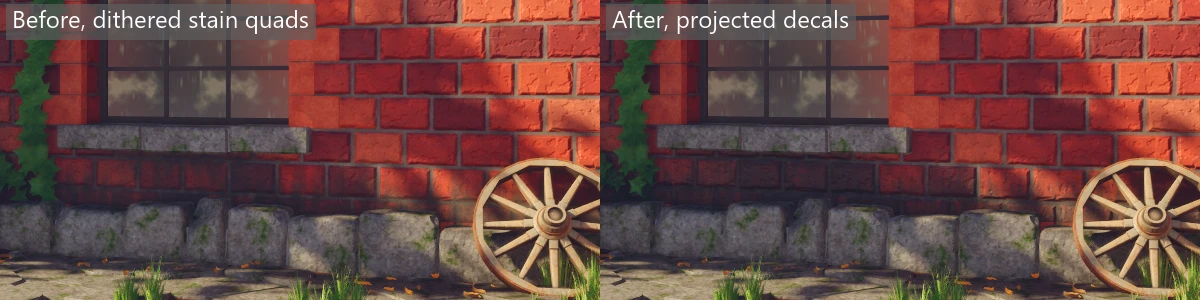
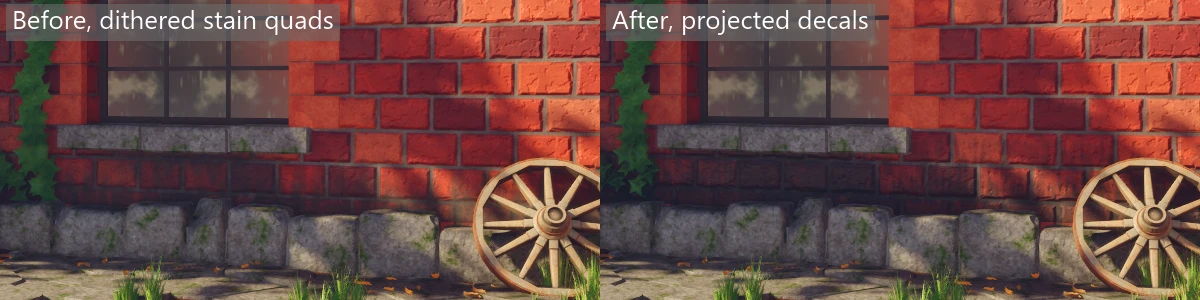
fix: decals read their normal maps the right way up, skip the sky safely and keep their materials bounded

diff --git a/src/Super/Rendering/SceneRenderer.cs b/src/Super/Rendering/SceneRenderer.cs
@@ -38,8 +38,21 @@ internal sealed class SceneRenderer : IDisposable
     private IContentFiles? _files;
     private readonly ReflectionProbeSchedule _reflectionProbes = new();
 
-    /// <summary>A material for each surface decals have used, made the first time and kept until content unloads.</summary>
-    private readonly Dictionary<Surface, MaterialHandle> _decalMaterials = [];
+    /// <summary>
+    /// A material for each surface decals have used, made the first time, with the frame it was last used in.
+    /// Kept until content unloads, or until there are more than <see cref="MaxDecalMaterials"/>.
+    /// </summary>
+    private readonly Dictionary<Surface, (MaterialHandle Handle, long Frame)> _decalMaterials = [];
+
+    /// <summary>
+    /// How many decal materials are kept. Past this, the ones this frame didn't use are let go, so a game that
+    /// makes a new <see cref="Surface"/> value every frame doesn't fill the material slots. Twice what one
+    /// frame can use, so the materials of a steady scene are never made again.
+    /// </summary>
+    internal const int MaxDecalMaterials = 2 * Rendition.Passes.DecalBatch.MaxDecals;
+
+    private long _decalFrame;
+    private readonly List<Surface> _unusedDecalSurfaces = [];
     private DecalDraw[] _decals = new DecalDraw[16];
     private int _decalCount;
 
@@ -313,7 +326,7 @@ internal sealed class SceneRenderer : IDisposable
         {
             foreach (var material in _decalMaterials.Values)
             {
-                _renderer.DestroyMaterial(material);
+                _renderer.DestroyMaterial(material.Handle);
             }
 
             _decalMaterials.Clear();
@@ -445,9 +458,39 @@ internal sealed class SceneRenderer : IDisposable
             _decals = new DecalDraw[Math.Max(placed.Length, _decals.Length * 2)];
         }
 
+        _decalFrame++;
         foreach (ref readonly var decal in placed)
         {
             _decals[_decalCount++] = new DecalDraw(decal.Box, DecalMaterial(decal.Material, content), decal.Blend);
+        }
+
+        ForgetUnusedDecalMaterials();
+    }
+
+    /// <summary>
+    /// Past <see cref="MaxDecalMaterials"/>, lets go of every decal material this frame didn't use. The renderer
+    /// destroys them once the frames still in flight are done with them.
+    /// </summary>
+    private void ForgetUnusedDecalMaterials()
+    {
+        if (_decalMaterials.Count <= MaxDecalMaterials)
+        {
+            return;
+        }
+
+        _unusedDecalSurfaces.Clear();
+        foreach (var (surface, material) in _decalMaterials)
+        {
+            if (material.Frame != _decalFrame)
+            {
+                _unusedDecalSurfaces.Add(surface);
+            }
+        }
+
+        foreach (var surface in _unusedDecalSurfaces)
+        {
+            _renderer.DestroyMaterial(_decalMaterials[surface].Handle);
+            _decalMaterials.Remove(surface);
         }
     }
 
@@ -457,19 +500,21 @@ internal sealed class SceneRenderer : IDisposable
     /// </summary>
     private MaterialHandle DecalMaterial(Surface surface, Content content)
     {
-        if (!_decalMaterials.TryGetValue(surface, out var handle))
+        if (_decalMaterials.TryGetValue(surface, out var known))
         {
-            var material = MaterialOf(surface) with
-            {
-                BaseColorTexture = Texture(surface.ColorTexture, content),
-                NormalTexture = Texture(surface.NormalTexture, content),
-                SurfaceTexture = Texture(surface.SurfaceTexture, content),
-                Flags = MaterialFlags.None,
-            };
-            handle = _renderer.CreateMaterial(material);
-            _decalMaterials.Add(surface, handle);
+            _decalMaterials[surface] = (known.Handle, _decalFrame);
+            return known.Handle;
         }
 
+        var material = MaterialOf(surface) with
+        {
+            BaseColorTexture = Texture(surface.ColorTexture, content),
+            NormalTexture = Texture(surface.NormalTexture, content),
+            SurfaceTexture = Texture(surface.SurfaceTexture, content),
+            Flags = MaterialFlags.None,
+        };
+        var handle = _renderer.CreateMaterial(material);
+        _decalMaterials.Add(surface, (handle, _decalFrame));
         return handle;
     }
 

diff --git a/src/Rendition/Vulkan/VulkanContext.cs b/src/Rendition/Vulkan/VulkanContext.cs
@@ -256,6 +256,19 @@ internal sealed unsafe class VulkanContext : IDisposable
         return null;
     }
 
+    /// <summary>
+    /// Throws when the GPU lacks a device feature the renderer can't draw without, naming it, rather than
+    /// letting device creation fail with a bare error code.
+    /// </summary>
+    internal static void RequireFeatures(in PhysicalDeviceFeatures supported)
+    {
+        if (!supported.IndependentBlend)
+        {
+            throw new InvalidOperationException(
+                "This GPU can't blend its render targets in different ways at once (Vulkan's independentBlend), which decals need.");
+        }
+    }
+
     private Device CreateDevice()
     {
         float priority = 1f;
@@ -267,6 +280,7 @@ internal sealed unsafe class VulkanContext : IDisposable
             PQueuePriorities = &priority,
         };
         Api.GetPhysicalDeviceFeatures(PhysicalDevice, out var supported);
+        RequireFeatures(supported);
         StorageImageExtendedFormats = supported.ShaderStorageImageExtendedFormats;
         var features = new PhysicalDeviceFeatures
         {

diff --git a/src/Rendition/Renderer.cs b/src/Rendition/Renderer.cs
@@ -1397,10 +1397,6 @@ public sealed unsafe class Renderer : IDisposable
     }
 
     /// <summary>
-    /// Sorts this frame's particles into their buffer and keeps the camera's axes, which
-    /// turn each one to face the screen. The view matrix holds them in its columns.
-    /// </summary>
-    /// <summary>
     /// Checks and packs the view's decals, or none when they're switched off. Throws for a decal
     /// that can't be drawn: too many, a box that can't be inverted, a weight outside 0 to 1 or a material that doesn't exist.
     /// </summary>
@@ -1419,6 +1415,10 @@ public sealed unsafe class Renderer : IDisposable
         _decalPass.Prepare(decals);
     }
 
+    /// <summary>
+    /// Sorts this frame's particles into their buffer and keeps the camera's axes, which
+    /// turn each one to face the screen. The view matrix holds them in its columns.
+    /// </summary>
     private void UploadParticles(in FrameView view)
     {
         ref readonly var m = ref view.View;

diff --git a/tests/Super.Tests/DecalTests.cs b/tests/Super.Tests/DecalTests.cs
@@ -169,4 +169,21 @@ public class DecalTests
         Assert.StartsWith("NormalTexture names 40, but nothing was named with that index.", error.Message);
         Assert.Empty(view.DrawnDecals.ToArray());
     }
+
+    [Fact]
+    public void A_GPU_that_cannot_blend_its_targets_independently_is_refused_by_name()
+    {
+        var error = Assert.Throws<InvalidOperationException>(
+            () => Rendition.Vulkan.VulkanContext.RequireFeatures(new Silk.NET.Vulkan.PhysicalDeviceFeatures { IndependentBlend = false }));
+
+        Assert.Equal(
+            "This GPU can't blend its render targets in different ways at once (Vulkan's independentBlend), which decals need.",
+            error.Message);
+    }
+
+    [Fact]
+    public void A_GPU_that_blends_its_targets_independently_is_accepted()
+    {
+        Rendition.Vulkan.VulkanContext.RequireFeatures(new Silk.NET.Vulkan.PhysicalDeviceFeatures { IndependentBlend = true });
+    }
 }

diff --git a/examples/Courtyard/content/materials/grime.material.cs b/examples/Courtyard/content/materials/grime.material.cs
@@ -17,8 +17,9 @@ public sealed class Grime : MaterialGraph
 
     public override Material Build()
     {
-        // 0 at the solid edge, rising down the image to 1.2 at the far edge, so the grime has gone by about four fifths.
-        var away = Pixel.Gray(p => p.Uv.Y * 1.2f);
+        // 0 at the solid edge, rising down the image. A streak reaches 1.2 at the far edge, so it has gone by about four
+        // fifths. Damp climbs further before it dries out, reaching 0.85, so its ragged top runs close to the far edge.
+        var away = Pixel.Gray(p => p.Uv.Y * (Streak ? 1.2f : 0.85f));
 
         // Water runs down a wall in streaks, so the fade is torn into vertical runs of different lengths.
         var streaks = Noise.Directional(scale: 24, angle: 90f, stretch: 10f, octaves: 3, seed: Seed).Remap(-0.3f, 0.3f);

diff --git a/examples/Courtyard/CourtyardGame.cs b/examples/Courtyard/CourtyardGame.cs
@@ -62,7 +62,9 @@ public sealed class CourtyardGame(Content content, Input input, Graphics graphic
         string[] kept = content.MeshNames(_courtyard).Where(name => name != "cy_stains").ToArray();
         _withoutStains = content.Meshes(_courtyard, kept);
 
-        var damp = content.Surface("materials/grime.material.cs");
+        // The damp is darkened past the grime's own colour so it reads from across the yard: wet brick goes
+        // a good deal darker than dry. The model's hidden quads use the same graph, so it isn't changed there.
+        var damp = content.Surface("materials/grime.material.cs") with { Color = new Vector3(0.5f) };
         var drip = content.Surface("materials/grime-streak.material.json");
         var rust = content.Surface("materials/rust-streak.material.json");
 

diff --git a/docs/design.md b/docs/design.md
@@ -1222,7 +1222,10 @@ A decal is a box. `View.Decal` takes its matrix, a `Surface` made of textures an
 `DecalBlend`, and refuses a box that can't be inverted, a weight outside 0 to 1, a surface
 shader and a 257th decal before anything is drawn. `SceneRenderer` turns each surface into
 a material of its own once (colour, normal and surface textures, no flags) and hands the
-renderer `FrameView.Decals`. `DecalBatch.Pack` checks them again and packs each one into a
+renderer `FrameView.Decals`. It keeps those materials, with the frame each was last used,
+until content unloads; past `MaxDecalMaterials` (512, twice what a frame can use) it lets go
+of every one the current frame didn't use, so a new `Surface` value each frame can't fill the
+material slots. `Renderer.DestroyMaterial` holds the slot until the frames in flight finish. `DecalBatch.Pack` checks them again and packs each one into a
 160-byte `GpuDecal`: the box, its inverse, the four weights and the material index.
 `DecalPass` keeps those in a host-visible vertex buffer for each frame in flight, read as
 per-instance attributes, so the frame set is unchanged, and draws all of them in one
@@ -1237,7 +1240,9 @@ inside it. Nothing in front of a decal needs testing: it lands on whatever the d
 buffer holds, which is the nearest surface.
 `decal.frag` reads the depth, rebuilds the world position from `inverseViewProjection`,
 takes it into the box with the inverse, and discards it outside the box or at the far
-plane. The UV is the box's local x and -z mapped from -0.5..0.5 to 0..1. Its derivatives
+plane. A pixel at the far plane has no finite position, so it is moved just outside the
+box first, before its neighbours' derivatives can pick up an infinity from it. The UV is
+the box's local x and -z mapped from -0.5..0.5 to 0..1. Its derivatives
 are taken before any discard and clamped to four times what a flat surface at that depth
 would give, so the mip doesn't jump to the smallest at a depth edge, and they're scaled by
 the frame's mip bias, so render scale and TAA sharpen decals as they do the rest.
@@ -1248,13 +1253,17 @@ box that pokes through a corner doesn't end in a hard line. Its strength is the 
 opacity (base colour alpha times the surface texture's alpha) times that fade. Base colour
 is alpha-blended, by that strength times `Color`, into RT0, with metallic left alone.
 
-RT1 is written whole, without blending, because a normal can't be blended as a colour:
+RT1 is written whole, without blending, while RT0 blends, which needs the device feature
+`independentBlend`. `VulkanContext.RequireFeatures` checks it before the device is made
+and names it when it's missing. A normal can't be blended as a colour:
 the decal's normal map is laid over the normal underneath with reoriented normal mapping
 (RNM), so the brick's bumps show through the damp. The pass must read the normal it
 writes, and a colour attachment can't be sampled while it's drawn to, so `RecordDecals`
 copies RT1 into `GBuffer.NormalCopy` with `vkCmdCopyImage` first and the shader reads the
-copy. The RNM runs in the box's frame: x across the box, y out of the surface, z along
-it. The result is mixed in by strength times `Normal`, roughness by strength times
+copy. The RNM runs in the box's frame, set up the way a mesh's is: the
+tangent is the box's +X, the way u rises, the bitangent its +Z, the way v falls, and the
+normal its +Y. The bitangent comes from the box's own Z rather than a cross product, so a
+mirrored box still reads its normal map the right way up. The result is mixed in by strength times `Normal`, roughness by strength times
 `Roughness`, and RT1's w is copied through. The copy and the transitions round it are
 skipped when a frame has no decals. Depth goes to shader-read for the pass, which the AO
 pass then reads as it was going to anyway.
@@ -1279,8 +1288,8 @@ What it doesn't do yet:
 - The angle fade uses the bumpy G-buffer normal, so a strongly bumped surface fades in
   specks near the limit.
 - `NormalCopy` costs a full scene-size RGBA16F image, kept even in frames with no decals.
-- The pass has no GPU timer mark of its own, so its time counts toward ambient occlusion
-  in the profiler.
+- The pass has no GPU timer mark of its own: it is recorded before the G-buffer's mark, so
+  its time counts toward the G-buffer in the profiler.
 
 ## Particles
 

diff --git a/docs/views.md b/docs/views.md
@@ -359,8 +359,10 @@ A decal lays a material onto whatever is already drawn inside a box: damp rising
 wall, a puddle stain on a floor, rust run down from a bolt. The box's matrix places, turns
 and sizes it, and the material is projected along the box's own −Y, so its +Y should look
 out of the surface. The material's U runs along the box's X and its V runs against its Z,
-each across the whole box, from −0.5 to 0.5 in the box's own units. A material graph is
-the usual material, loaded on its own with `content.Surface`:
+each across the whole box, from −0.5 to 0.5 in the box's own units. Its normal map reads
+as it does on a mesh, with green pointing the way V falls, towards the box's +Z, and a
+mirrored box reads it the same way. A material graph is the usual material, loaded on its
+own with `content.Surface`:
 
 ```csharp
 Surface damp = content.Surface("materials/grime.material.cs");
@@ -398,6 +400,11 @@ fifth of the box's depth at either end.
 view.Decal(SootKey, box, soot, new DecalBlend { Roughness = 0f });
 ```
 
+A surface's `Color` tints the decal's colour, so `damp with { Color = new Vector3(0.6f) }`
+lays the same stain darker. Each different surface gets a material of its own the first
+time a decal uses it. Make them once in `Load` rather than a new one each frame: past 512,
+the ones the frame didn't use are let go and made again when next used.
+
 A view refuses, with a message naming what's wrong:
 
 - more than 256 decals in a frame;
@@ -413,7 +420,7 @@ A view refuses, with a message naming what's wrong:
 `Graphics.Fastest()` does too. The Courtyard lays its damp, the dirty water under its sill
 and the rust under its anchor plates as decals. D turns them off and on there.
 
-![The foot of the Courtyard's brick wall under the window, before and after. On the left the damp is a dithered quad behind the brick faces and shows only faintly in the mortar. On the right it is a decal that darkens the bricks and the mortar above the plinth and fades upward in streaks, while the bricks' edges still show through](media/decals.webp)
+![The foot of the Courtyard's brick wall under the window, before and after. On the left the damp is a dithered quad on the wall and shows only faintly. On the right it is a decal that darkens the bricks and the mortar above the plinth and fades upward in streaks, while the bricks' edges still show through](media/decals.webp)
 
 Decals have some limits:
 
